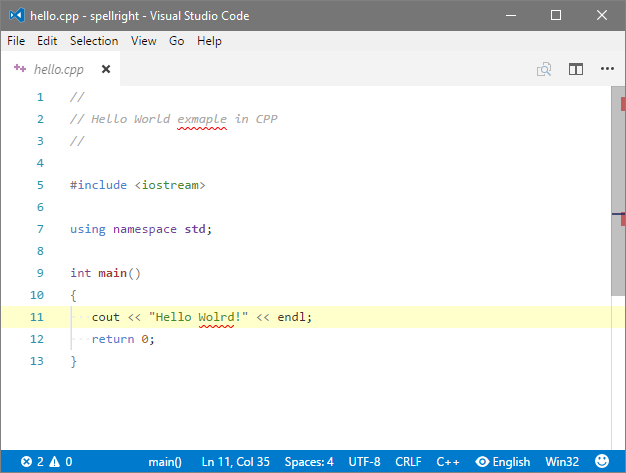
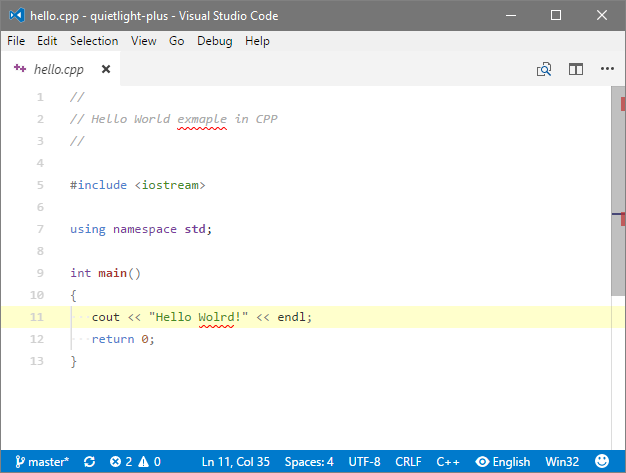
Update for line numbers' color change in VSCode 1.11

diff --git a/README.md b/README.md
@@ -13,6 +13,6 @@ ext install quietlight-plus
 
 ## Known Issues
 
-* Line numbers' color, which in light themes is bit outstanding/aggressive, cannot be changed in current versions of VSCode. There is a hope however that it may change one day [#6435](https://github.com/Microsoft/vscode/issues/6435).
+* Line numbers' color, which in light themes is bit outstanding/aggressive, cannot be changed in current versions of VSCode. There is a hope however that it may change one day [#6435](https://github.com/Microsoft/vscode/issues/6435). [EDIT] This has (partially) changed with the advent of version 1.11 yesterday. Now line numbers' color can be changed (as can be seen on the screenshot above) in `workbench.experimental.colorCustomizations` section using `editorLineNumbers` setting.
 
 Please report all the errors and/or annoyances that you see on the [issues](https://github.com/bartosz-antosik/vscode-quietlight-plus/issues) page.

diff --git a/CHANGELOG.md b/CHANGELOG.md
@@ -1,5 +1,12 @@
 # Change Log
 
+## **1.0.2** released on 6th April 2017
+
+**CHANGES**
+
+- Small clean-up of accompanying text documents.
+- Screenshot updated with line numbers' color tuned.
+
 ## **1.0.0** released on 3rd April 2017
 
 - Initial release.
